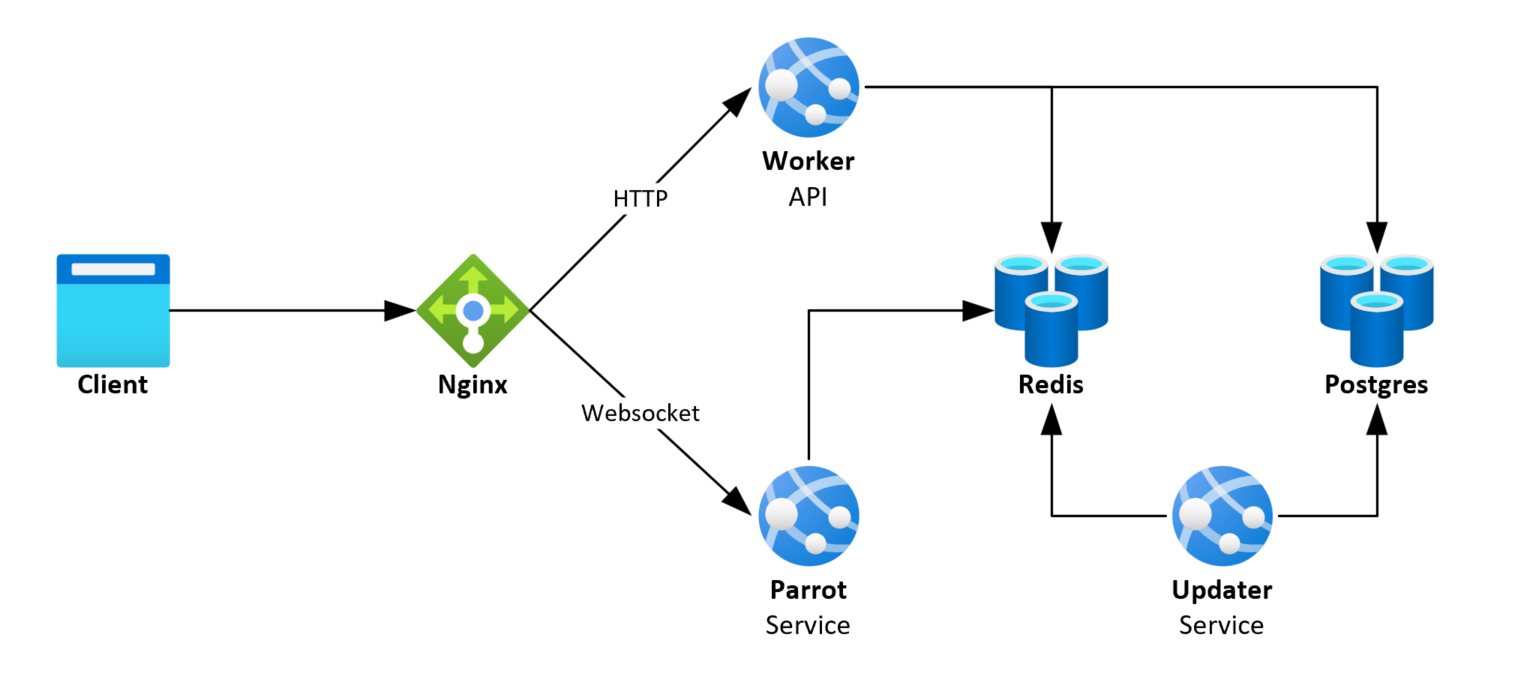
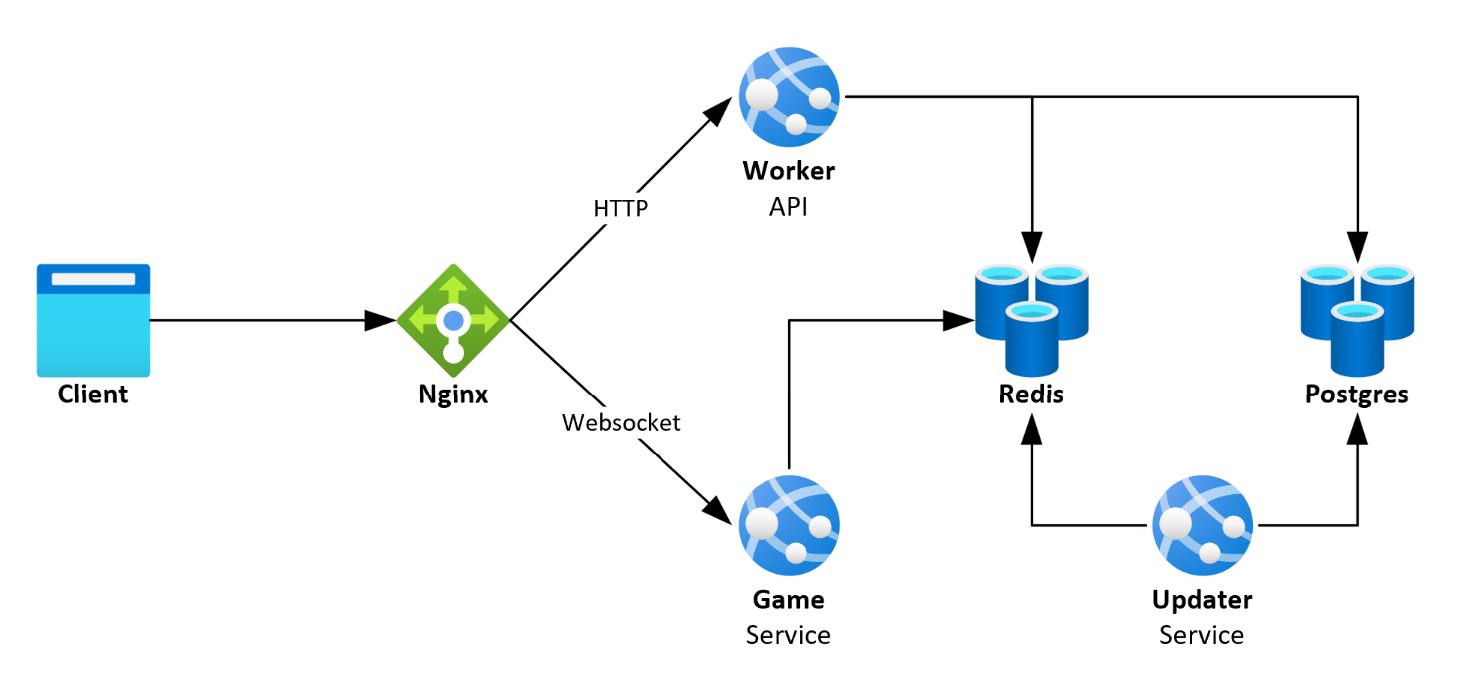
rename parrot service to game service

diff --git a/README.md b/README.md
@@ -1,8 +1,7 @@
 # Delta
 Delta is a turn-based online word game where players compete to transform a starter word into a new word by changing one letter at a time.
 
-This project is for me to learn and pratice my skills.
-
+**WORK IN PROGRESS**
 
 # Table of Contents
 - [Gettings Started](#getting-started)
@@ -62,22 +61,22 @@ Ensure you have the following installed:
 ![Network Diagram](documentation/images/DeltaNetworkImage1.png)
 
 ### Data Storage
-***Redis*** is used to store hot data:
+***Redis*** stores hot data:
 - Live game data
 - Matchmaking queue
 - User sessions
 - Pub/Sub
 
-***Postgres*** is used to store persistent data:
+***Postgres*** stores persistent data:
 - Game history
 - User credentials and profile
 
 ### Services
-***Worker*** -> handles user authentication, matchmaking, fetching game data and validating game moves
+**Worker** -> User authentication, profile management, matchmaking, querying historical game data
 
-***Parrot*** -> holds websocket connections and acts as a real-time event delivery system between services and clients
+**Game** -> Websocket handling & game logic
 
-***Updater*** -> ends games when a move has not been made after 100 seconds
+**Updater** -> Ends games when a move has not been made after 100 seconds
 
 
 # References
